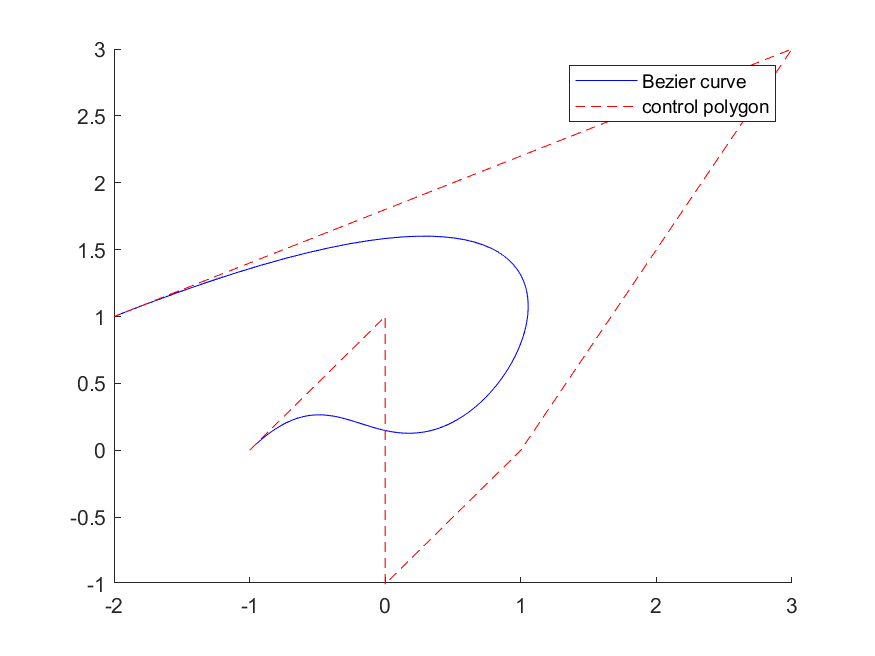
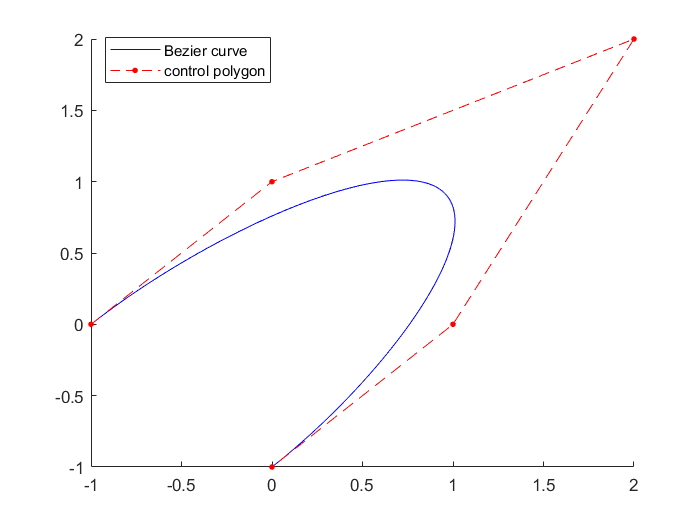
add bezier fitting function

diff --git a/hw/code/FitBezierCurve.m b/hw/code/FitBezierCurve.m
@@ -1,0 +1,66 @@
+function fig = FitBezierCurve(q, n, method)
+%SMOOTHFITBEZIERCURVE Bezier curve fitting.
+%   Use least square method to fit given data points with Bezier curve.
+%   Input:
+%           q: sample data given in a row vector of points.
+%           n: degree.
+%           method: para method, "uniform", "chord", "centripetal",
+%                   "chebyUniform", "chebyChord", "chebyCentri"
+%   Output:
+%           p: control pologon given in a row vector of points.
+%   LS:     min ||Mp - q||_2.
+
+if nargin < 3
+    method = "chebyChord";
+end
+
+[m, d] = size(q);   % dimension
+
+% generate para sequence
+if isequal(method, "uniform")
+    t = 0:1/(d-1):1;
+elseif isequal(method, "chord")
+    t = chordPara(q);
+elseif isequal(method, "centri")
+    t = centriPara(q);
+elseif isequal(method, "chebyUniform")
+    t = chebyPara(q, 0, 1, "uniform");
+elseif isequal(method, "chebyChord")
+    t = chebyPara(q, 0, 1, "chord");  
+elseif isequal(method, "chebyCentri")
+    t = chebyPara(q, 0, 1, "centri");
+else
+    error(['Invalid input! Expecting "uniform", "chord", ' ...
+        '"centri", "chebyUniform", "chebyChord" or "chebyCentri"!']);
+end
+
+N = length(t);
+M = zeros(N, n+1);  % each row is a vector of n+1 Bernstein values for t_i
+p = zeros(m, n+1);
+
+% compute coefficient matrix
+for i = 1:N
+    M(i, :) = allBernstein(n, t(i));
+end
+
+% we use normal equation to solve LS problem here, rather than 
+% QR decompsition, because it is easy to obtain ||M||_{\infty} = 1
+% by the weight property of Bernstein basis functions.
+% solve normal equation for each dimension
+for k = 1:m
+    b = M' * q(k, :)';
+    x = M' * M \ b;        
+    p(k, :) = x';
+end
+
+% plot Bezier curve and data points
+fig = plotBezierCurve(p, 0:0.01:1, false);
+if m == 2
+    plot(q(1,:), q(2,:), 'r.', 'MarkerSize', 10);
+elseif m == 3
+    plot3(q(1,:), q(2,:), q(3, :), 'r.', 'MarkerSize', 10);
+end
+legend("Bezier curve", "Sample data");
+set(fig, 'Name', "Bezier Curve Fitting");
+
+end

diff --git a/hw/code/chebyPara.m b/hw/code/chebyPara.m
@@ -1,0 +1,42 @@
+function t = chebyPara(q, l, u, method)
+%CHEBYPARA Chebyshev parameterization for curve and surface fitting.
+%   Inspired by the idea of Chebyshev interpolation, which can 
+%   effectively eliminate the Runge phenominon and has nice fitting
+%   property, this para method is in fact a modification of other 
+%   parameterization methods.
+%   Input:
+%       q: data points to be fitted given in the form of row vector.
+%       l,u: lower and upper of original parameter interval, e.g. [0,1].
+%       method: "uniform", "chord", "centri"
+%   Output:
+%       new parameter vector. 
+
+if nargin < 4
+    method = "chord";
+end
+
+n = size(q,2);
+
+% generate original para sequence
+if isequal(method, "uniform")
+    t = l:(u-l)/(n-1):u;
+elseif isequal(method, "chord")
+    t = chordPara(q);
+    t = (u - l) * t + l;    % affine transform
+elseif isequal(method, "centri")
+    t = centriPara(q);
+    t = (u - l) * t + l;    % affine transform
+else
+    error(['Invalid input! Expecting "uniform", "chord" ' ...
+        'or "centri"!']);
+end
+
+% affine transform, convert l and u to n and 1, respectively
+t = n - (t - l) / (u - l) * (n - 1);
+
+% composite mapping and transform back to [l,u]. For uniform para,
+% it is equivalent to assign n zeros of Chebyshev polynomial to the paras.
+t = (u - l) * (cos((2*t-1)/(2*n)*pi) - cos((2*n-1)/(2*n)*pi)) / ...
+    (cos(1/(2*n)*pi) - cos((2*n-1)/(2*n)*pi)) + l;
+
+end

diff --git a/hw/code/plotBezierCurve.m b/hw/code/plotBezierCurve.m
@@ -1,5 +1,5 @@
 function fig = plotBezierCurve(p, t, polygon, method)
-%PLOTBEZIERCURVE 绘制Bezier曲线
+%PLOTBEZIERCURVE Draw Bezier curve
 %   Input:
 %         p: control pologon given in a row vector of points.
 %         t: parameter values.
@@ -14,7 +14,7 @@ if nargin <= 3
     method = "deCasteljau";
 end
 
-if nargin == 2
+if nargin <= 2
     polygon = true;
 end
 
@@ -39,7 +39,7 @@ if m == 2   % two dimension
     hold on
     plot(x(1,:), x(2,:), '-b');
     if polygon
-        plot(p(1,:), p(2,:), 'r--');
+        plot(p(1,:), p(2,:), 'r--.', 'MarkerSize', 10);
         legend('Bezier curve','control polygon');
     end
 elseif m == 3   % three dimension
@@ -47,7 +47,7 @@ elseif m == 3   % three dimension
     hold on
     plot3(x(1,:), x(2,:), x(3,:), '-b');
     if polygon
-        plot3(p(1,:), p(2,:), p(3,:), 'r--');
+        plot3(p(1,:), p(2,:), p(3,:), 'r--.', 'MarkerSize', 10);
         legend('Bezier curve','control polygon');
     end
     grid

diff --git a/hw/code/test_FitBezierCurve.m b/hw/code/test_FitBezierCurve.m
@@ -1,0 +1,36 @@
+% test function 'FitBezierCurve'
+
+% degree
+n = 3;
+
+% two dimension
+p0 = [-1;0];
+p1 = [0;1];
+p2 = [3;3];
+p3 = [1;0];
+p4 = [0;-1];
+p = [p0,p1,p2,p3,p4];
+
+% % uniform para method
+% fig1 = FitBezierCurve(p, n, 'uniform');
+% % chord para method
+% fig2 = FitBezierCurve(p, n, 'chord');
+% chebyChord para method
+fig3 = FitBezierCurve(p, n, 'chebyChord');
+
+% three dimension
+p0 = [-1;0;0];
+p1 = [0;2;1];
+p2 = [3;3;3];
+p3 = [1;0;2];
+p4 = [0;-1;0];
+p = [p0,p1,p2,p3,p4];
+t = chordPara(p);
+
+% % uniform para method
+% fig4 = FitBezierCurve(p, n, 'uniform');
+% % chord para method
+% fig5 = FitBezierCurve(p, n, 'chord');
+% chebyChord para method
+fig6 = FitBezierCurve(p, n, 'chebyChord');
+

diff --git a/hw/code/findSpan.m b/hw/code/findSpan.m
@@ -1,0 +1,33 @@
+function mid = findSpan(p,u,U)
+%FINDSPAN Find index of knot span where the parameter is in.
+%   Use bisection method to search.
+%   Input:
+%           p: degree.
+%           u: parameter
+%           U: knot vector
+%   Output:
+%           mid: index
+
+m = length(U);
+n = m - p - 1;  % number of basis functions of p degree
+
+if u == U(n+1)
+    mid = n;
+    return
+end
+
+% bisection search
+low = p + 1;
+high = n + 1;
+mid = floor((low + high) / 2);
+
+while u < U(mid) || u >= U(mid + 1)
+    if u < U(mid)
+        high = mid;
+    else
+        low = mid + 1;
+    end
+    mid = floor((low + high) / 2);
+end
+
+end

diff --git a/hw/code/allBernstein.m b/hw/code/allBernstein.m
@@ -1,0 +1,22 @@
+function B = allBernstein(n, u)
+%BERNSTEIN Compute all values of Bernstein basis functions of degree n.
+%   Input:
+%       n: degree.
+%       u: parameter in [0,1].
+%   Output:
+%       B:  values of n+1 Bernstein basis functions at u.
+
+B = zeros(1, n+1);
+B(1) = 1;
+
+for j = 2:n+1
+    saved = 0;
+    for k = 1:j-1
+        temp = B(k);
+        B(k) = saved + (1 - u) * temp;
+        saved = u * temp;
+    end
+    B(j) = saved;
+end
+
+end

diff --git a/hw/code/test_plotBezierCurve.m b/hw/code/test_plotBezierCurve.m
@@ -6,21 +6,19 @@ t = 0:0.01:1;
 % two dimension
 p0 = [-1;0];
 p1 = [0;1];
-p2 = [0;-1];
+p2 = [2;2];
 p3 = [1;0];
-p4 = [3;3];
-p5 = [-2;1];
-p = [p0,p1,p2,p3,p4,p5];
+p4 = [0;-1];
+p = [p0,p1,p2,p3,p4];
 
 fig1 = plotBezierCurve(p, t);
 
 % three dimension
 p0 = [-1;0;0];
 p1 = [0;2;1];
-p2 = [0;-1;0];
+p2 = [2;2;3];
 p3 = [1;0;2];
-p4 = [2;2;3];
-p5 = [2;3;-1];
-p = [p0,p1,p2,p3,p4,p5];
+p4 = [0;-1;0];
+p = [p0,p1,p2,p3,p4];
 
 fig2 = plotBezierCurve(p, t);

diff --git a/hw/code/basisFuncs.m b/hw/code/basisFuncs.m
@@ -1,0 +1,20 @@
+function N = basisFuncs(i, u, p, U)
+%BASISFUNCS Compute all non-zero B-spline basis functions at u. 
+%   Input:
+%           i: index of the knot span
+%           u: parameter
+%           p: degree
+%           U: knot vector
+%   Output:
+%           N: p+1 function values at u in the form of row vector.
+
+N = zeros(1, p+1);
+N(1) = 1;
+left = zeros(1, p);
+
+for j = 1:p
+    left(j + 1) = u - U(i + 2 - j);
+    
+end
+
+end

diff --git a/hw/code/chordPara.m b/hw/code/chordPara.m
@@ -1,0 +1,15 @@
+function t = chordPara(q)
+%CHORDPARA Chord parameterization for curve and surface fitting.
+%   Input:
+%       q: data points to be fitted given in the form of row vector
+%   Output:
+%       t: parameter vector of data points.
+
+n = size(q, 2);
+
+t = zeros(1,n);
+t(2:n) = vecnorm(q(:,2:n) - q(:,1:n-1));    % chord length vector
+t(2:n) = t(2:n) / sum(t(2:n));  % ratio of each chord length
+t = cumsum(t);
+
+end

diff --git a/hw/code/centriPara.m b/hw/code/centriPara.m
@@ -1,0 +1,15 @@
+function t = centriPara(q)
+%CENTRIPARA Centripetal parameterization for curve and surface fitting.
+%   Input:
+%       q: data points to be fitted given in the form of row vector
+%   Output:
+%       t: parameter vector of data points.
+
+n = size(q, 2);
+
+t = zeros(1,n);
+t(2:n) = sqrt(vecnorm(q(:,2:n) - q(:,1:n-1)));
+t(2:n) = t(2:n) / sum(t(2:n));  % ratio of each chord length
+t = cumsum(t);
+
+end

diff --git a/hw/code/deCasteljau.m b/hw/code/deCasteljau.m
@@ -1,5 +1,5 @@
 function  x = deCasteljau(p, t)
-%DECASTELJAU de Casteljau算法计算Bezier曲线上的点
+%DECASTELJAU Use de Casteljau algorithm to compute the point on Bezier curve.
 %   Input:  
 %         p: control pologon given in a row vector of points.
 %         t: parameter value in [0,1].

diff --git a/hw/code/test_allBernstein.m b/hw/code/test_allBernstein.m
@@ -1,0 +1,13 @@
+% test function 'allBernstein'
+n = 3;
+u = 0.5;
+
+% 'allBernstein' function
+B = allBernstein(n,u);
+
+% test whether all values sum up to 1
+if (sum(B) == 1)
+    disp('Success! Bernstein function is correct!');
+else
+    disp('Failure! Bernstein function is wrong!');
+end
